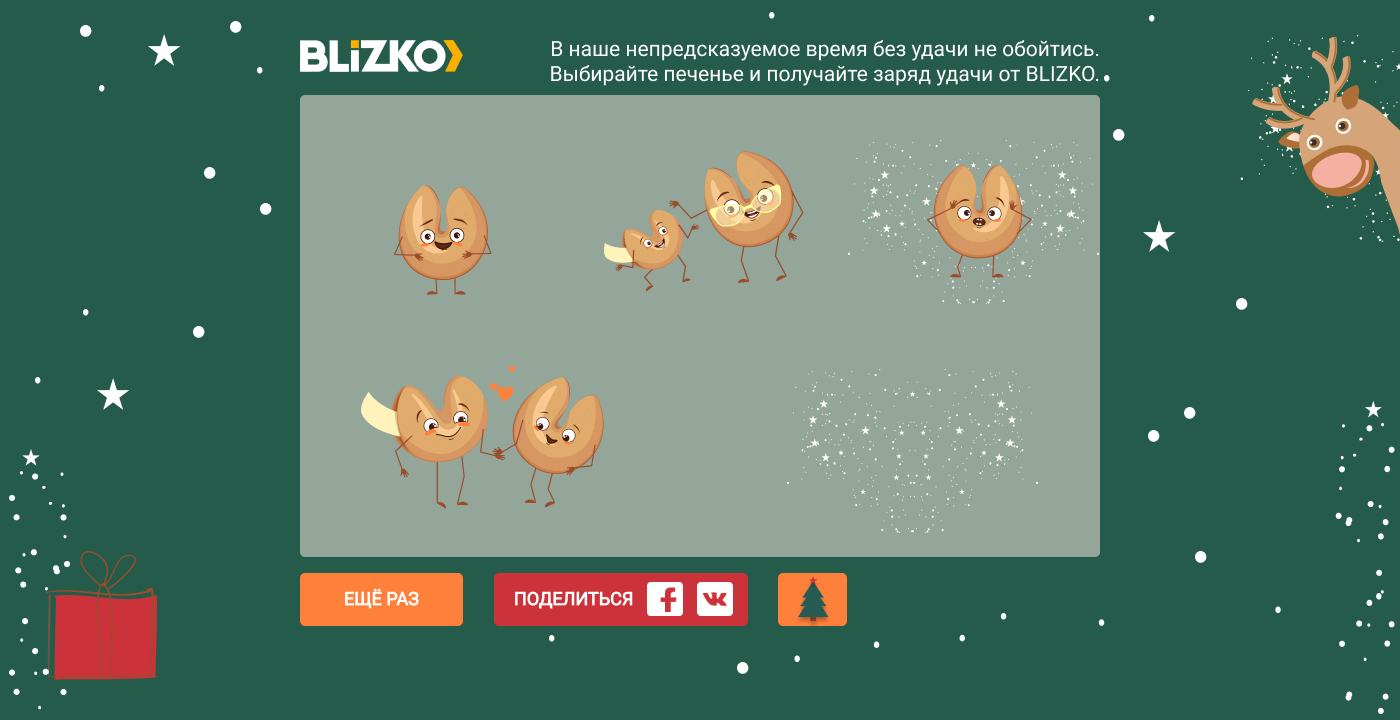
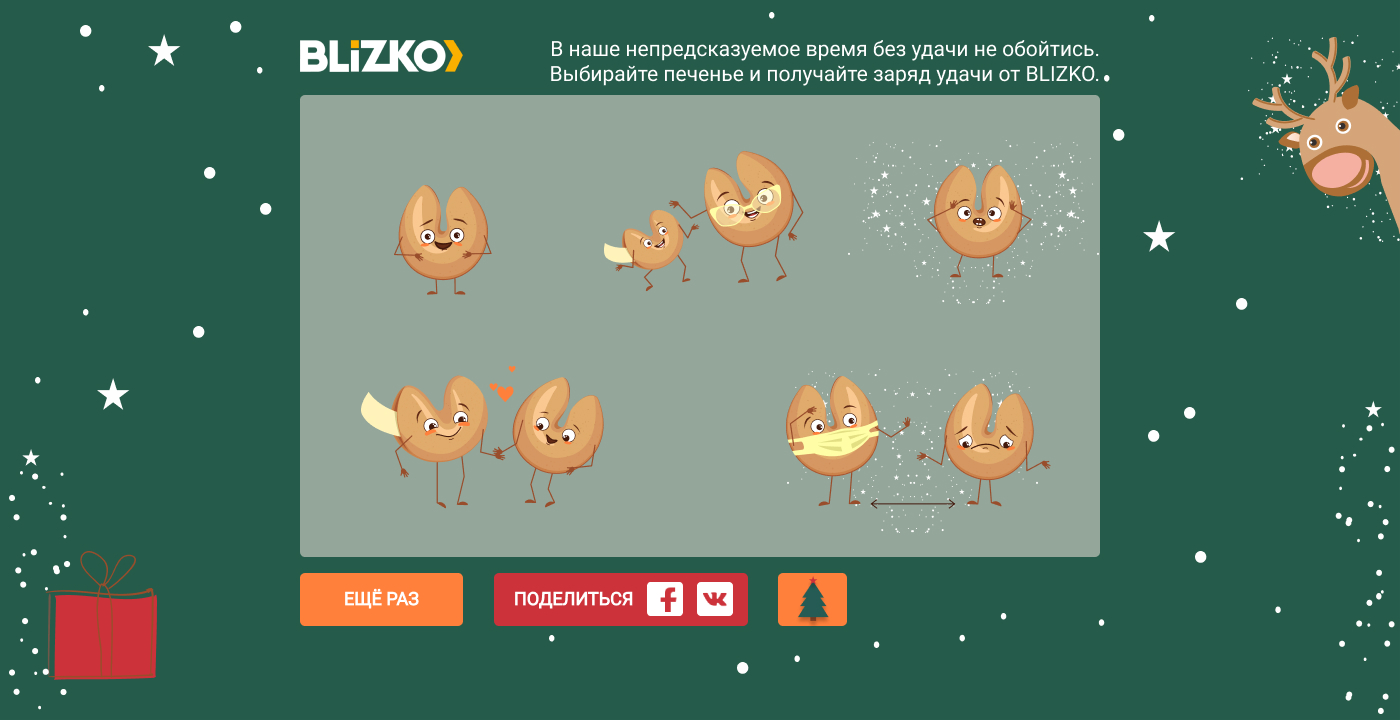
fix main.jpg, change again btn logic

Changed region(s): [[0.5529, 0.5194, 0.7371, 0.7028]]

diff --git a/index.html b/index.html
@@ -8,7 +8,7 @@
   <meta property="og:description" 
     content="Разламывайте печенье и получайте добрые предсказания от BLIZKO" />
   <link href='https://fonts.googleapis.com/css?family=Roboto' rel='stylesheet' type='text/css'>
-  <link rel="stylesheet" href="style.css?ver=1">
+  <link rel="stylesheet" href="style.css?ver=2">
 </head>
 <body>
   <div class="wrapper js-wrapper">
@@ -43,7 +43,7 @@
       <p>С Новым годом и наилучшими пожеланиями,<br>Команда BLIZKO</p>
     </div>
     <div class="buttons__container">
-      <button type="button" class="button button--again js-again dn">Ещё раз</button>
+      <button type="button" class="button button--again js-again">Ещё раз</button>
       <div class="buttons__block">
         <div class="share">
           <div class="share__title">Поделиться</div>
@@ -65,7 +65,7 @@
       </div>
     </div>
   </div>
-  <script src="./app.js?ver=1"></script>
+  <script src="./app.js?ver=2"></script>
   
 </body>
 </html>

diff --git a/app.js b/app.js
@@ -2,7 +2,7 @@ let locationDir = location.href.split('/');
 if (locationDir[locationDir.length-1] === 'index.html') {
   locationDir.pop()
 }
-const ROOT_DIR = '' || locationDir.join('/').concat('/');
+const ROOT_DIR = '' || locationDir.join('/');
 
 const messages = [
   'Ваша прибыль взлетит выше самых смелых ожиданий',
@@ -68,7 +68,6 @@ window.onload = () => {
   $finish.addEventListener('click', () => {
     document.querySelector('.js-wrapper').classList.add('wrapper--finished');
     $finish.classList.add('dn');
-    $again.classList.remove('dn');
     hideMessage();
     setShareImage('finish');
     
@@ -76,7 +75,6 @@ window.onload = () => {
   $again.addEventListener('click', () => {
     document.querySelector('.js-wrapper').classList.remove('wrapper--finished');
     $finish.classList.remove('dn');
-    $again.classList.add('dn');
     hideMessage();
     setShareImage('main');
   });
